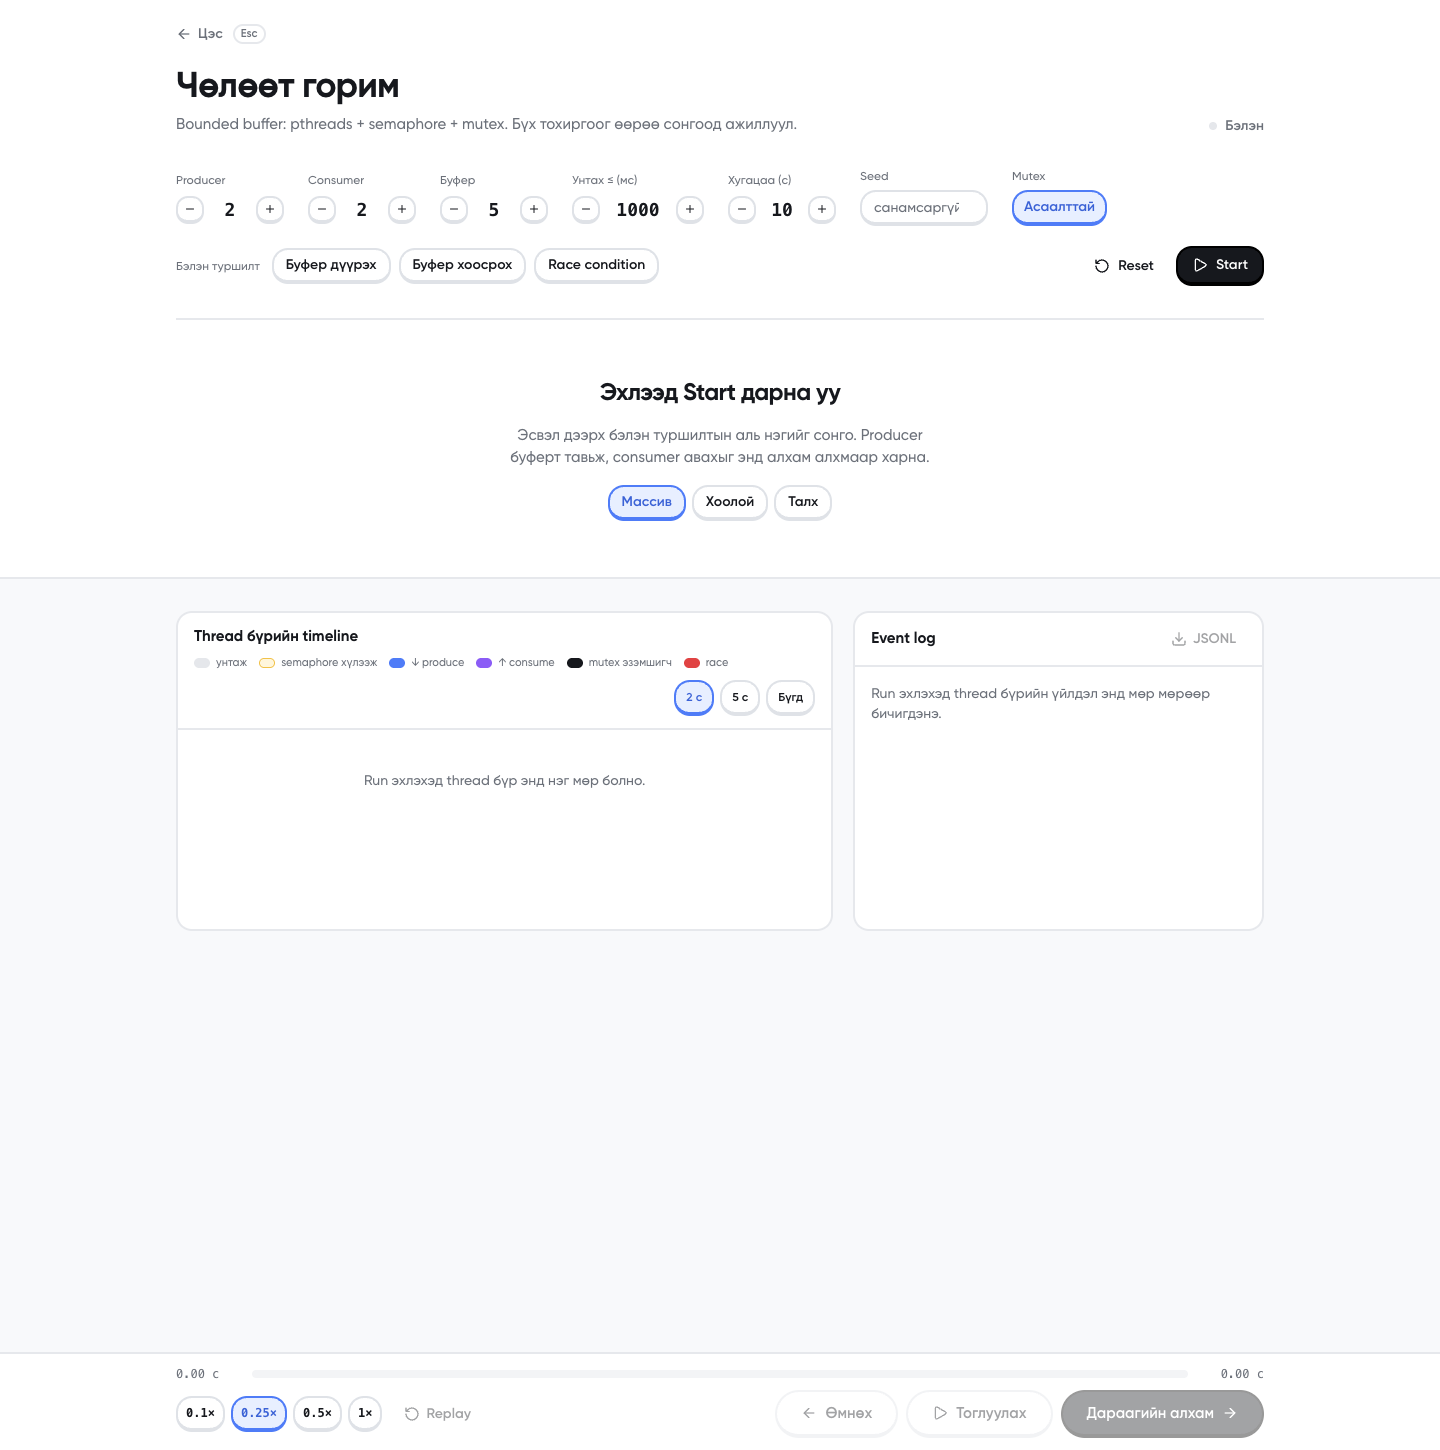
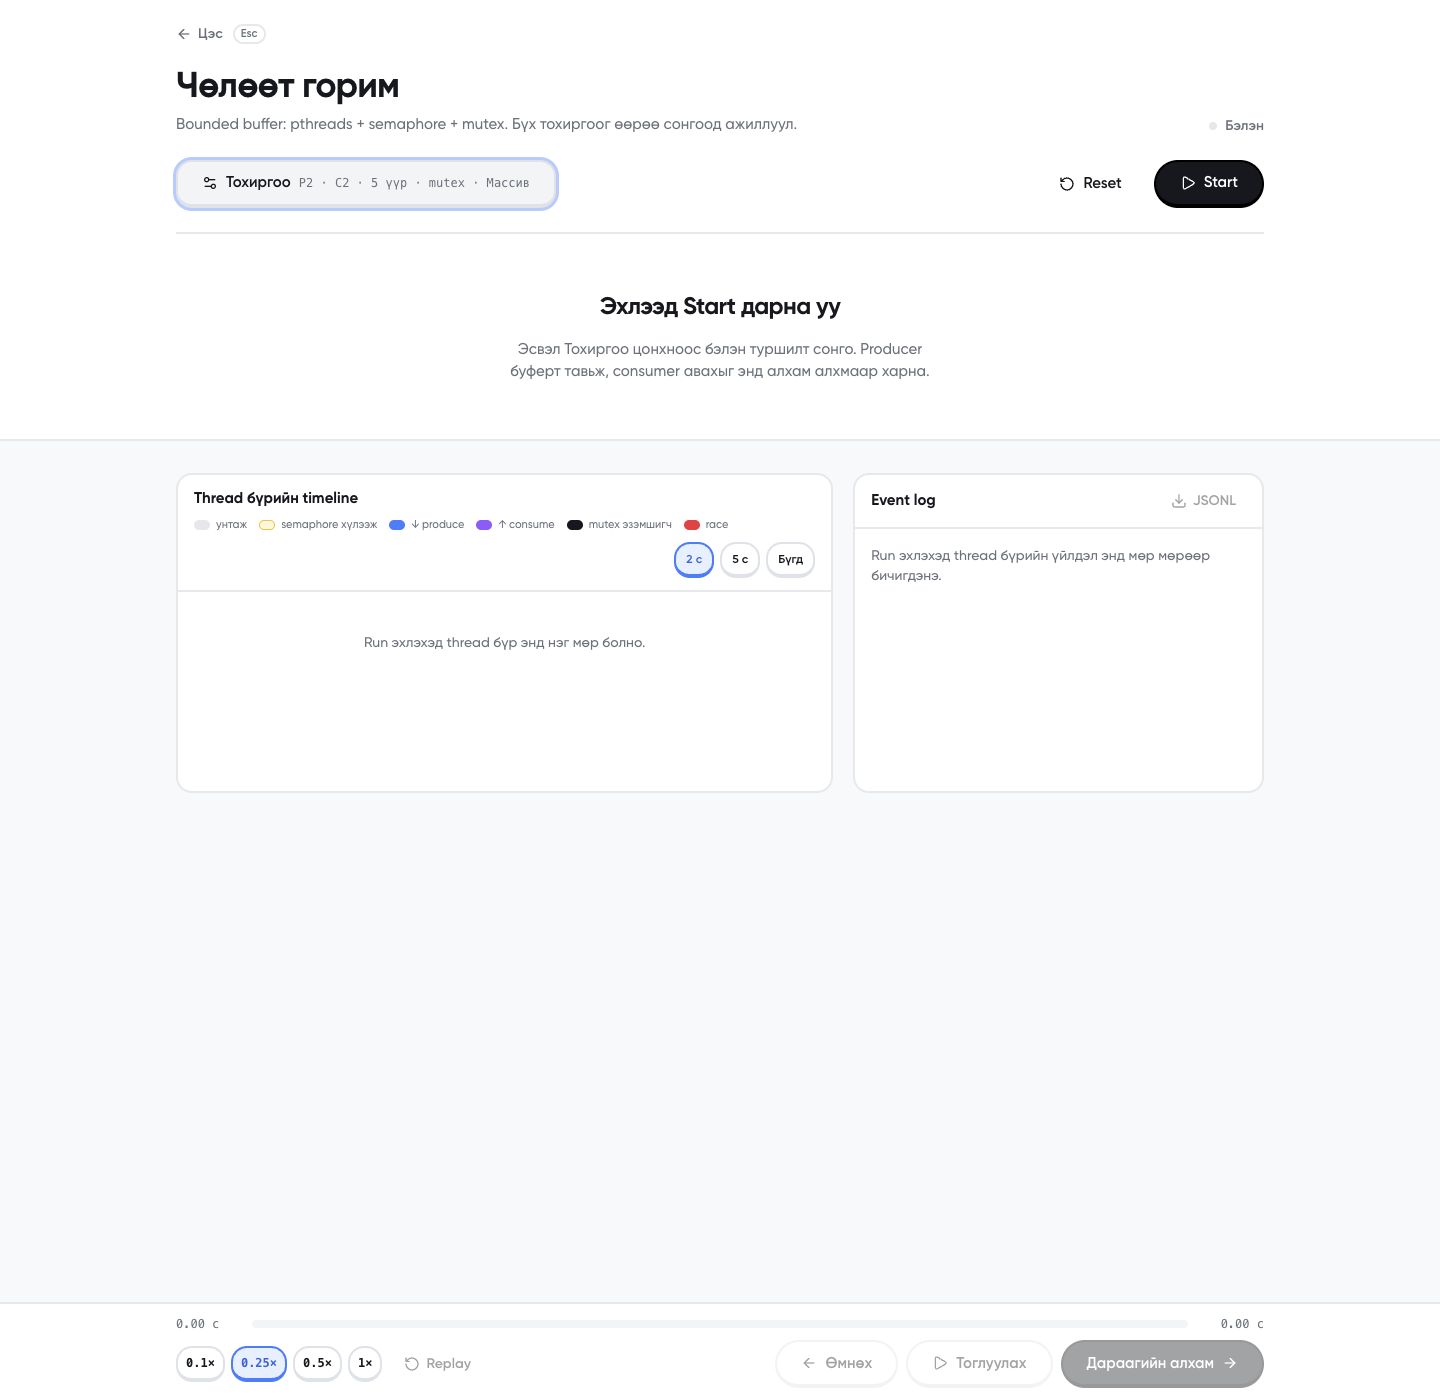
fix: document the centred menu and settings window

diff --git a/docs/Manual.md b/docs/Manual.md
@@ -24,7 +24,7 @@ npm run dev
 Дараа нь браузерт **http://localhost:3000**-ийг нээхэд эхлэлийн цэс гарна. `npm run dev` нь эхлээд C core-ийг (`src/core/pc`) автоматаар build хийнэ.
 
 ### Эхлэлийн цэс
-Нээхэд тоглоомын цэс шиг эхлэлийн дэлгэц гарна (зураг 8). Баруун талд нь жинхэнэ C core-ийн жижиг run "demo" болж тасралтгүй эргэлдэнэ. **↑ ↓** сонгох, **Enter** нээх, **1–4** шууд нээх, бусад дэлгэцээс **Esc** дарж цэс рүү буцна.
+Нээхэд тоглоомын цэс шиг эхлэлийн дэлгэц гарна (зураг 8): голд гарчиг, доор нь 3 том товч нэг мөрөнд (Хичээл, Түвшингүүд, Чөлөөт горим), хамгийн доор Тухай. Гарчгийн дээрх 5 нүд нь жинхэнэ C core-ийн жижиг run бөгөөд тасралтгүй эргэлдэнэ. **← →** (эсвэл ↑ ↓) сонгох, **Enter** нээх, **1–3** горим, **4** Тухай, бусад дэлгэцээс **Esc** дарж цэс рүү буцна.
 
 | Цэс | Хаяг | Юу хийх вэ |
 |---|---|---|
@@ -36,6 +36,7 @@ npm run dev
 ![Эхлэлийн цэс](screenshots/web_08_menu.png)
 ![Хичээл](screenshots/web_09_learn.png)
 ![Түвшний асуулт](screenshots/web_10_level_quiz.png)
+![Тохиргоо цонх](screenshots/web_11_settings.png)
 
 ### Оролт ба тохиргоо
 | Талбар | Утга | Хүрээ | Анхдагч |
@@ -48,10 +49,10 @@ npm run dev
 | Seed | санамсаргүй тооны эх утга; ижил seed = ижил унтах хугацаа | 0–2147483647, хоосон бол санамсаргүй | хоосон |
 | mutex | унтраавал critical section хамгаалалтгүй болж race condition гарна | асаах/унтраах | асаалттай |
 
-Тоо бүрийг **− / +** товчоор эсвэл шууд бичиж өөрчилнө. Хүрээнээс гадуур утга оруулбал тоо улаан болж, Start дарахад алдааны тайлбар гарна (зураг 6).
+Чөлөөт горимд бүх тохиргоо **Тохиргоо** товчоор нээгдэх цонхонд байна (зураг 11): Run-ий тоонууд, seed, mutex, буферийн дүрслэл (Массив / Хоолой / Талх), бэлэн туршилтууд. Товчны хажууд одоогийн тохиргооны хураангуй (жишээ нь `P2 · C2 · 5 үүр · mutex · Массив`) харагдана. Түвшний хуудсанд run-ий тохиргоо түгжээтэй, зөвхөн дүрслэлийг сольж болно. Тоо бүрийг **− / +** товчоор эсвэл шууд бичиж өөрчилнө. Хүрээнээс гадуур утга оруулбал тоо улаан болж, Start дарахад алдааны тайлбар гарна (зураг 6).
 
 ### Ажиллуулах, зогсоох, reset
-- **Start**: тохиргоогоор шинэ run эхлүүлнэ. Бэлэн туршилтын товч (Буфер дүүрэх / Буфер хоосрох / Race condition) тохиргоог бөглөөд шууд эхлүүлнэ.
+- **Start** (эсвэл Тохиргоо цонхны **Эхлүүлэх**): тохиргоогоор шинэ run эхлүүлнэ. Цонхны бэлэн туршилтын товч (Буфер дүүрэх / Буфер хоосрох / Race condition) тохиргоог бөглөөд шууд эхлүүлж, цонхыг хаана.
 - **Stop**: ажиллаж буй C процессыг зогсооно, тэр хүртэлх event-үүд үлдэнэ.
 - **Reset**: run-ийг зогсоож дэлгэцийг цэвэрлэнэ.
 - Timeline дээр **дарж эсвэл чирж** аль ч агшин руу очно. `←` `→` нэг event, `Shift + ←/→` 10 event, `Space` pause/play.
@@ -61,7 +62,7 @@ npm run dev
 - Timeline-ий баруун дээд буланд **2 с / 5 с / Бүгд** цонх: анхдагч нь 2 с; 2 с, 5 с үед timeline playhead-ийг дагаж гүйнэ.
 
 ### Дүрслэлийн тэмдэг, өнгө, төлөв
-**Буферийн дүрслэл (дээд хэсэг)**. Баруун дээд буланд **Массив / Хоолой / Талх** товчоор гурван дүрслэлийн аль нэгийг сонгоно. Гурвуулаа ижил өгөгдлийг харуулна.
+**Буферийн дүрслэл (дээд хэсэг)**. Тохиргоо цонхны "Буферийн дүрслэл" хэсгээс **Массив / Хоолой / Талх** гурвын аль нэгийг сонгоно (Хичээл дээр буферийн баруун дээд буланд). Гурвуулаа ижил өгөгдлийг харуулна.
 - **Массив** (сурах бичгийн Figure 7.1 шиг): буфер = нүдний мөр (circular array). Цэнхэр нүдэнд item байна, саарал нүд хоосон, яг одоо хандсан нүд ногоон болж дээш өргөгдөнө (race бол улаан). **▲in** (ногоон) нь producer-ийн дараагийн тавих нүд, **▲out** (нил ягаан) нь consumer-ийн дараагийн авах нүд, хоёулаа гулсаж шилжинэ. Сүүлийн нүдний дараа [0] руу эргэж ирнэ.
 - **Хоолой** (FIFO): item зүүн талаас орж, баруун талаас гарна. Хамгийн баруун талынх нь хамгийн эрт орсон тул эхэлж авагдана. Тасархай тойрог = сул зай (`empty`), цэнхэр = item (`full`). Item бүрийн доор нүдний индекс бичигдэнэ.
 - **Талх** (видеоны жишээ): талхчин = producer, авагч = consumer, тавиур = буфер, "сул зайны тасалбар" = `empty`, "талхны тасалбар" = `full`, "нэг удаад нэг хүн" хаалга = mutex. Тайлбарын мөр энгийн үгээр гарна.

diff --git a/README.md b/README.md
@@ -23,10 +23,10 @@ git clone https://github.com/khuslenshi/os-bd1-producer-consumer.git && cd os-bd
 npm install
 npm run dev          # C core-ийг автоматаар build хийгээд → http://localhost:3000
 ```
-Эхлэлийн цэснээс сонгоно (↑ ↓ + Enter, Esc буцах):
+Эхлэлийн цэснээс сонгоно (← → + Enter, Esc буцах):
 - **Хичээл** (`/learn`): бодит run-ийг 9 алхамд хувааж тайлбарлана, асуулттай.
 - **Түвшингүүд** (`/levels`): Буфер дүүрэх, Буфер хоосрох, Race condition. Run дуусахад асуулт гарна.
-- **Чөлөөт горим** (`/play`): бүх тохиргоог өөрөө сонгоно. Timeline дээр дарж/чирж аль ч агшин руу очно; `←` `→` нэг event, `Space` pause.
+- **Чөлөөт горим** (`/play`): **Тохиргоо** цонхонд run-ий тоо, mutex, буферийн дүрслэл, бэлэн туршилтыг сонгоно. Timeline дээр дарж/чирж аль ч агшин руу очно; `←` `→` нэг event, `Space` pause.
 - **Тухай** (`/about`).
 
 ### Core-ийг командаас шууд ажиллуулах (номын хэлбэр)
